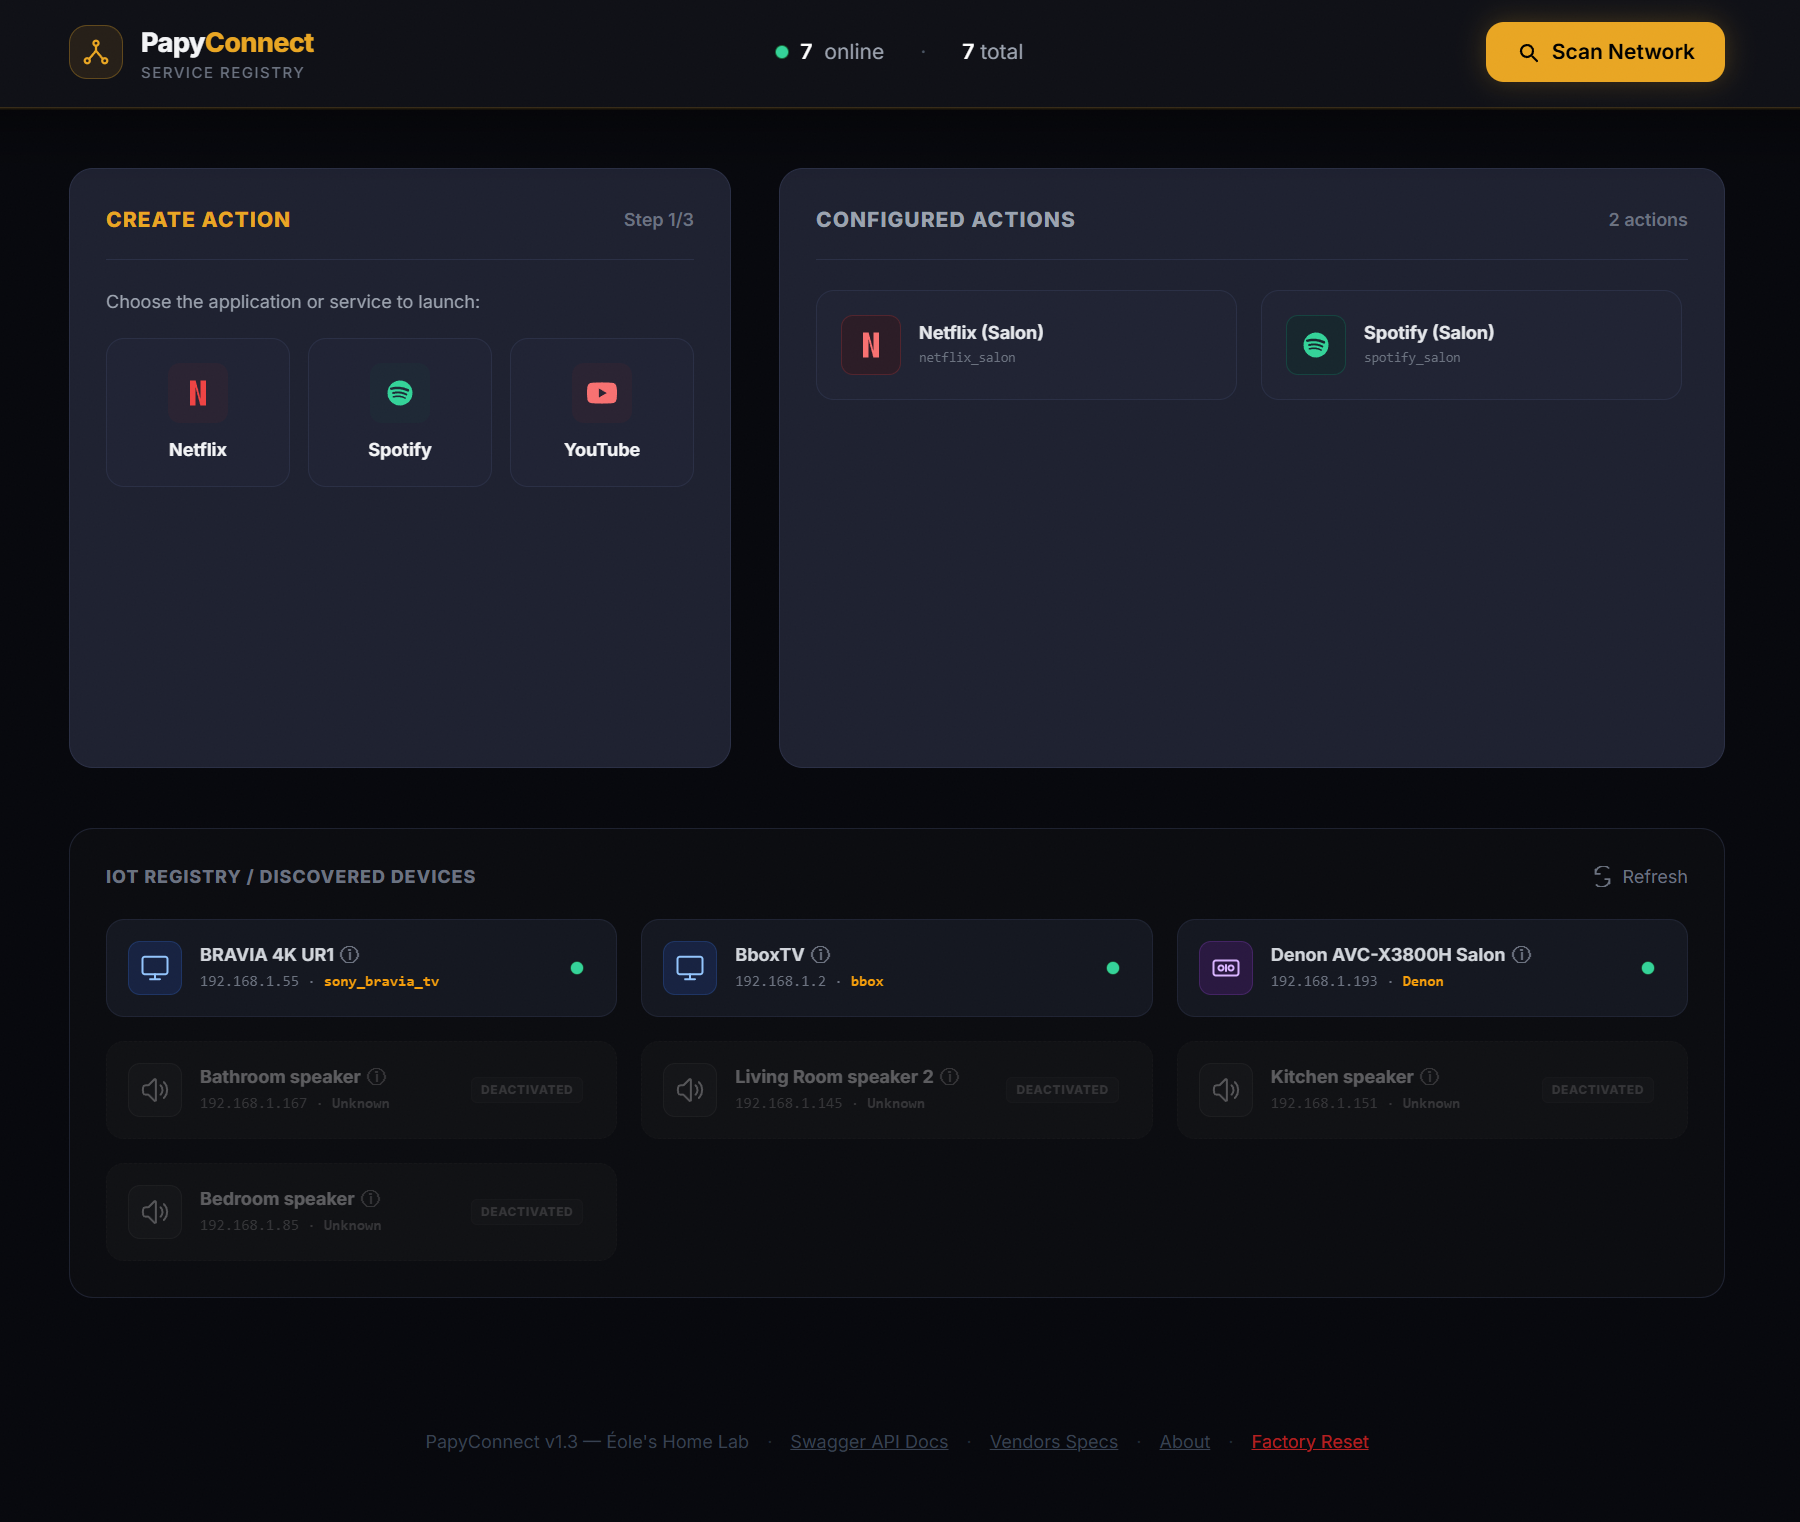
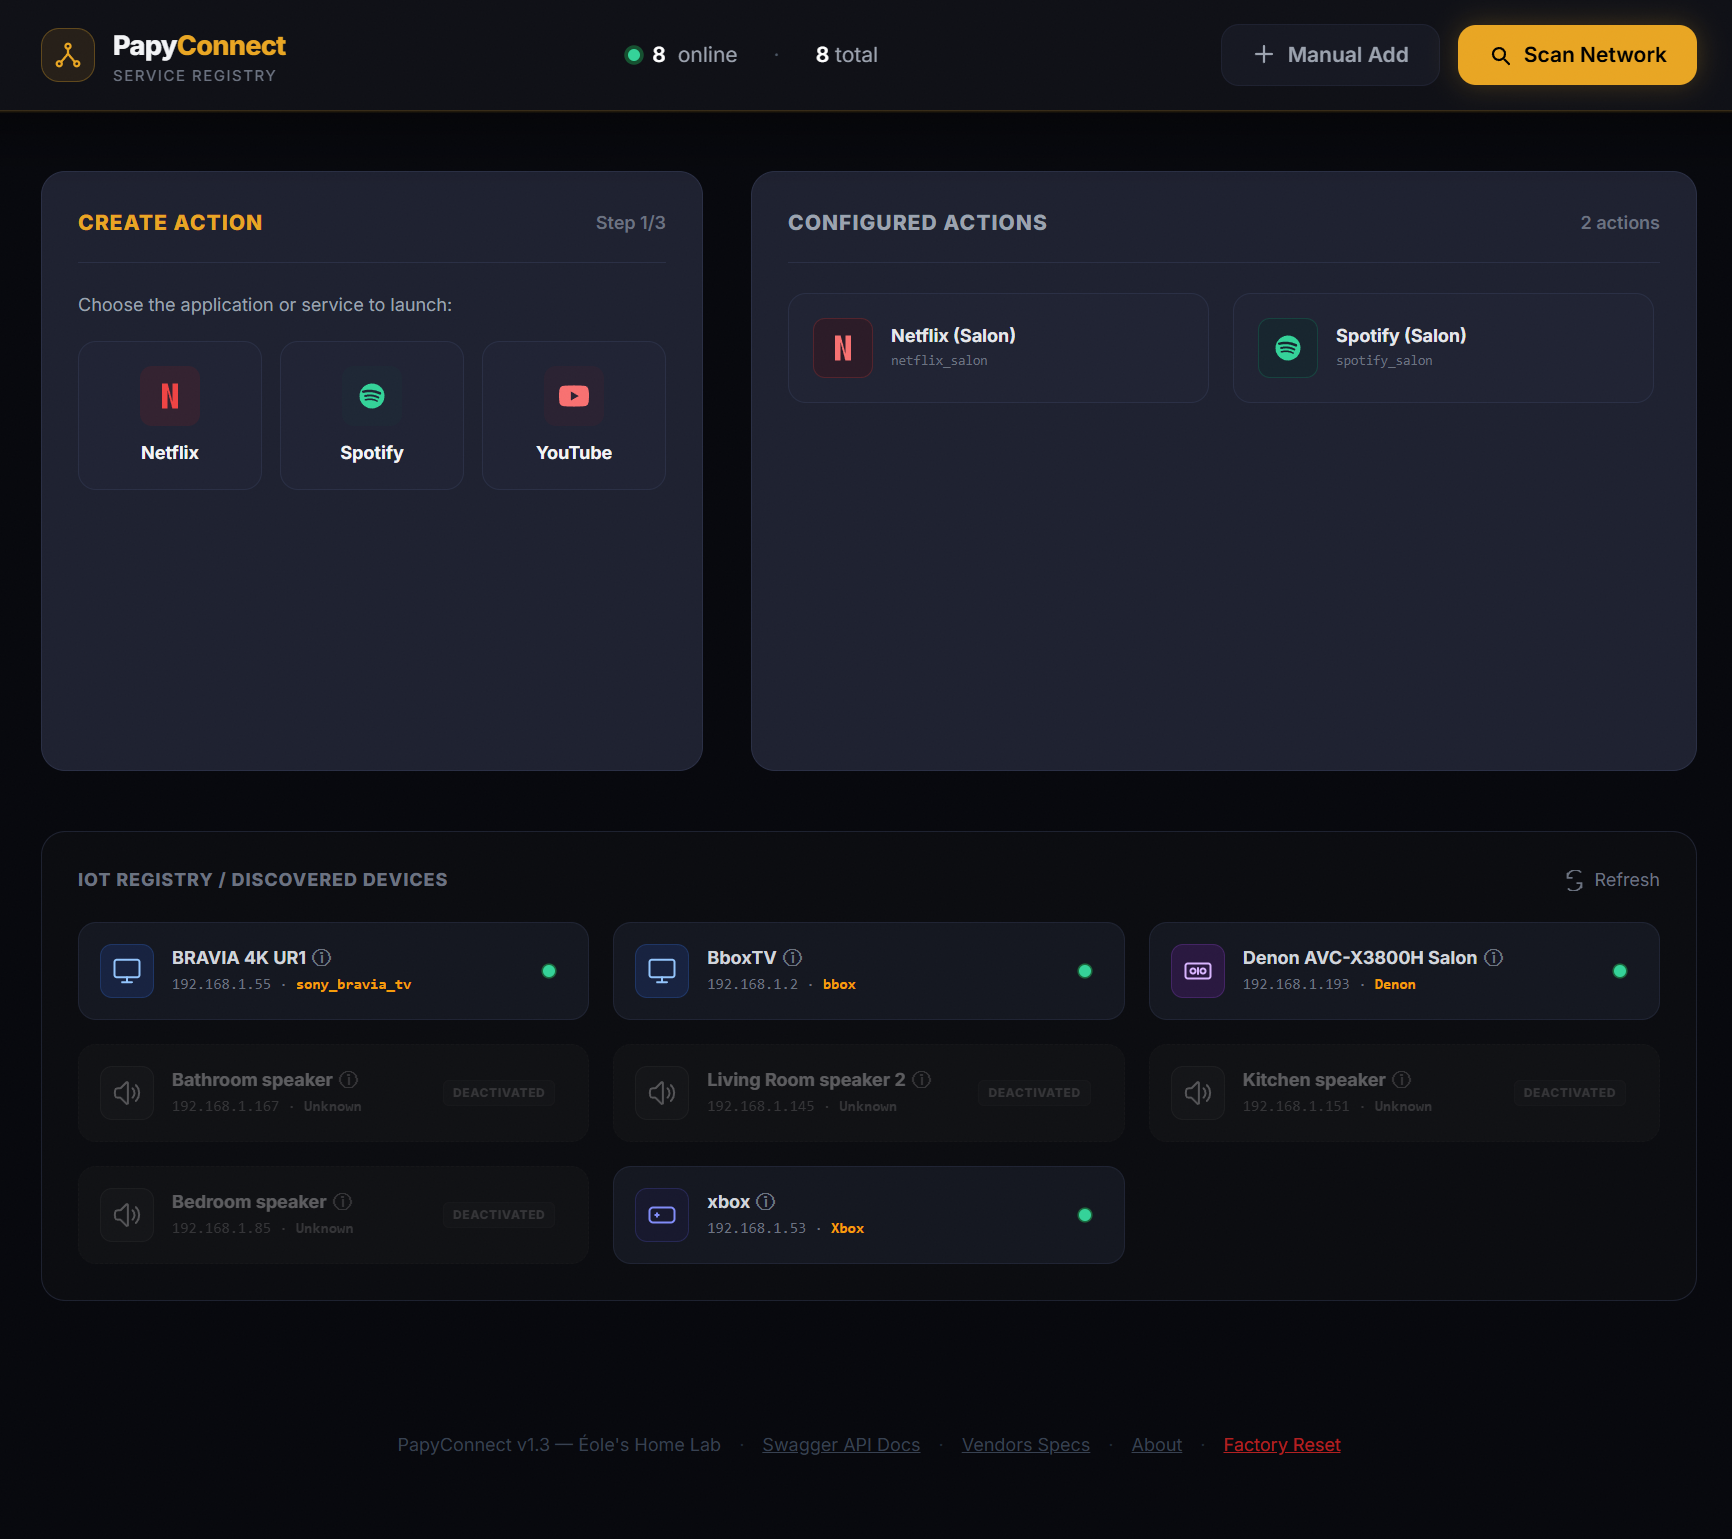
docs: update main.png and add new device-add.png screenshot with manual add details

diff --git a/README.md b/README.md
@@ -147,6 +147,10 @@ PapyConnect is designed to be simple enough for senior family members. The confi
 Clicking any active device displays its custom vendor details, network latency, and applications loaded from its discovery endpoint.
 ![Device Info Modal](images/device-info.png)
 
+#### Manual Device Registration (Ghost Devices)
+Allows registering virtual "ghost devices" (which are hidden from mDNS). The setup popup prefills the local IP subnet prefix automatically to simplify input.
+![Manual Device Add Dialog](images/device-add.png)
+
 #### Brand Capabilities Reference Library
 Displays technical specifications, default ports, protocols, and discovery APIs for all registered manufacturers.
 ![Supported Brands Reference](images/vendor-list.png)